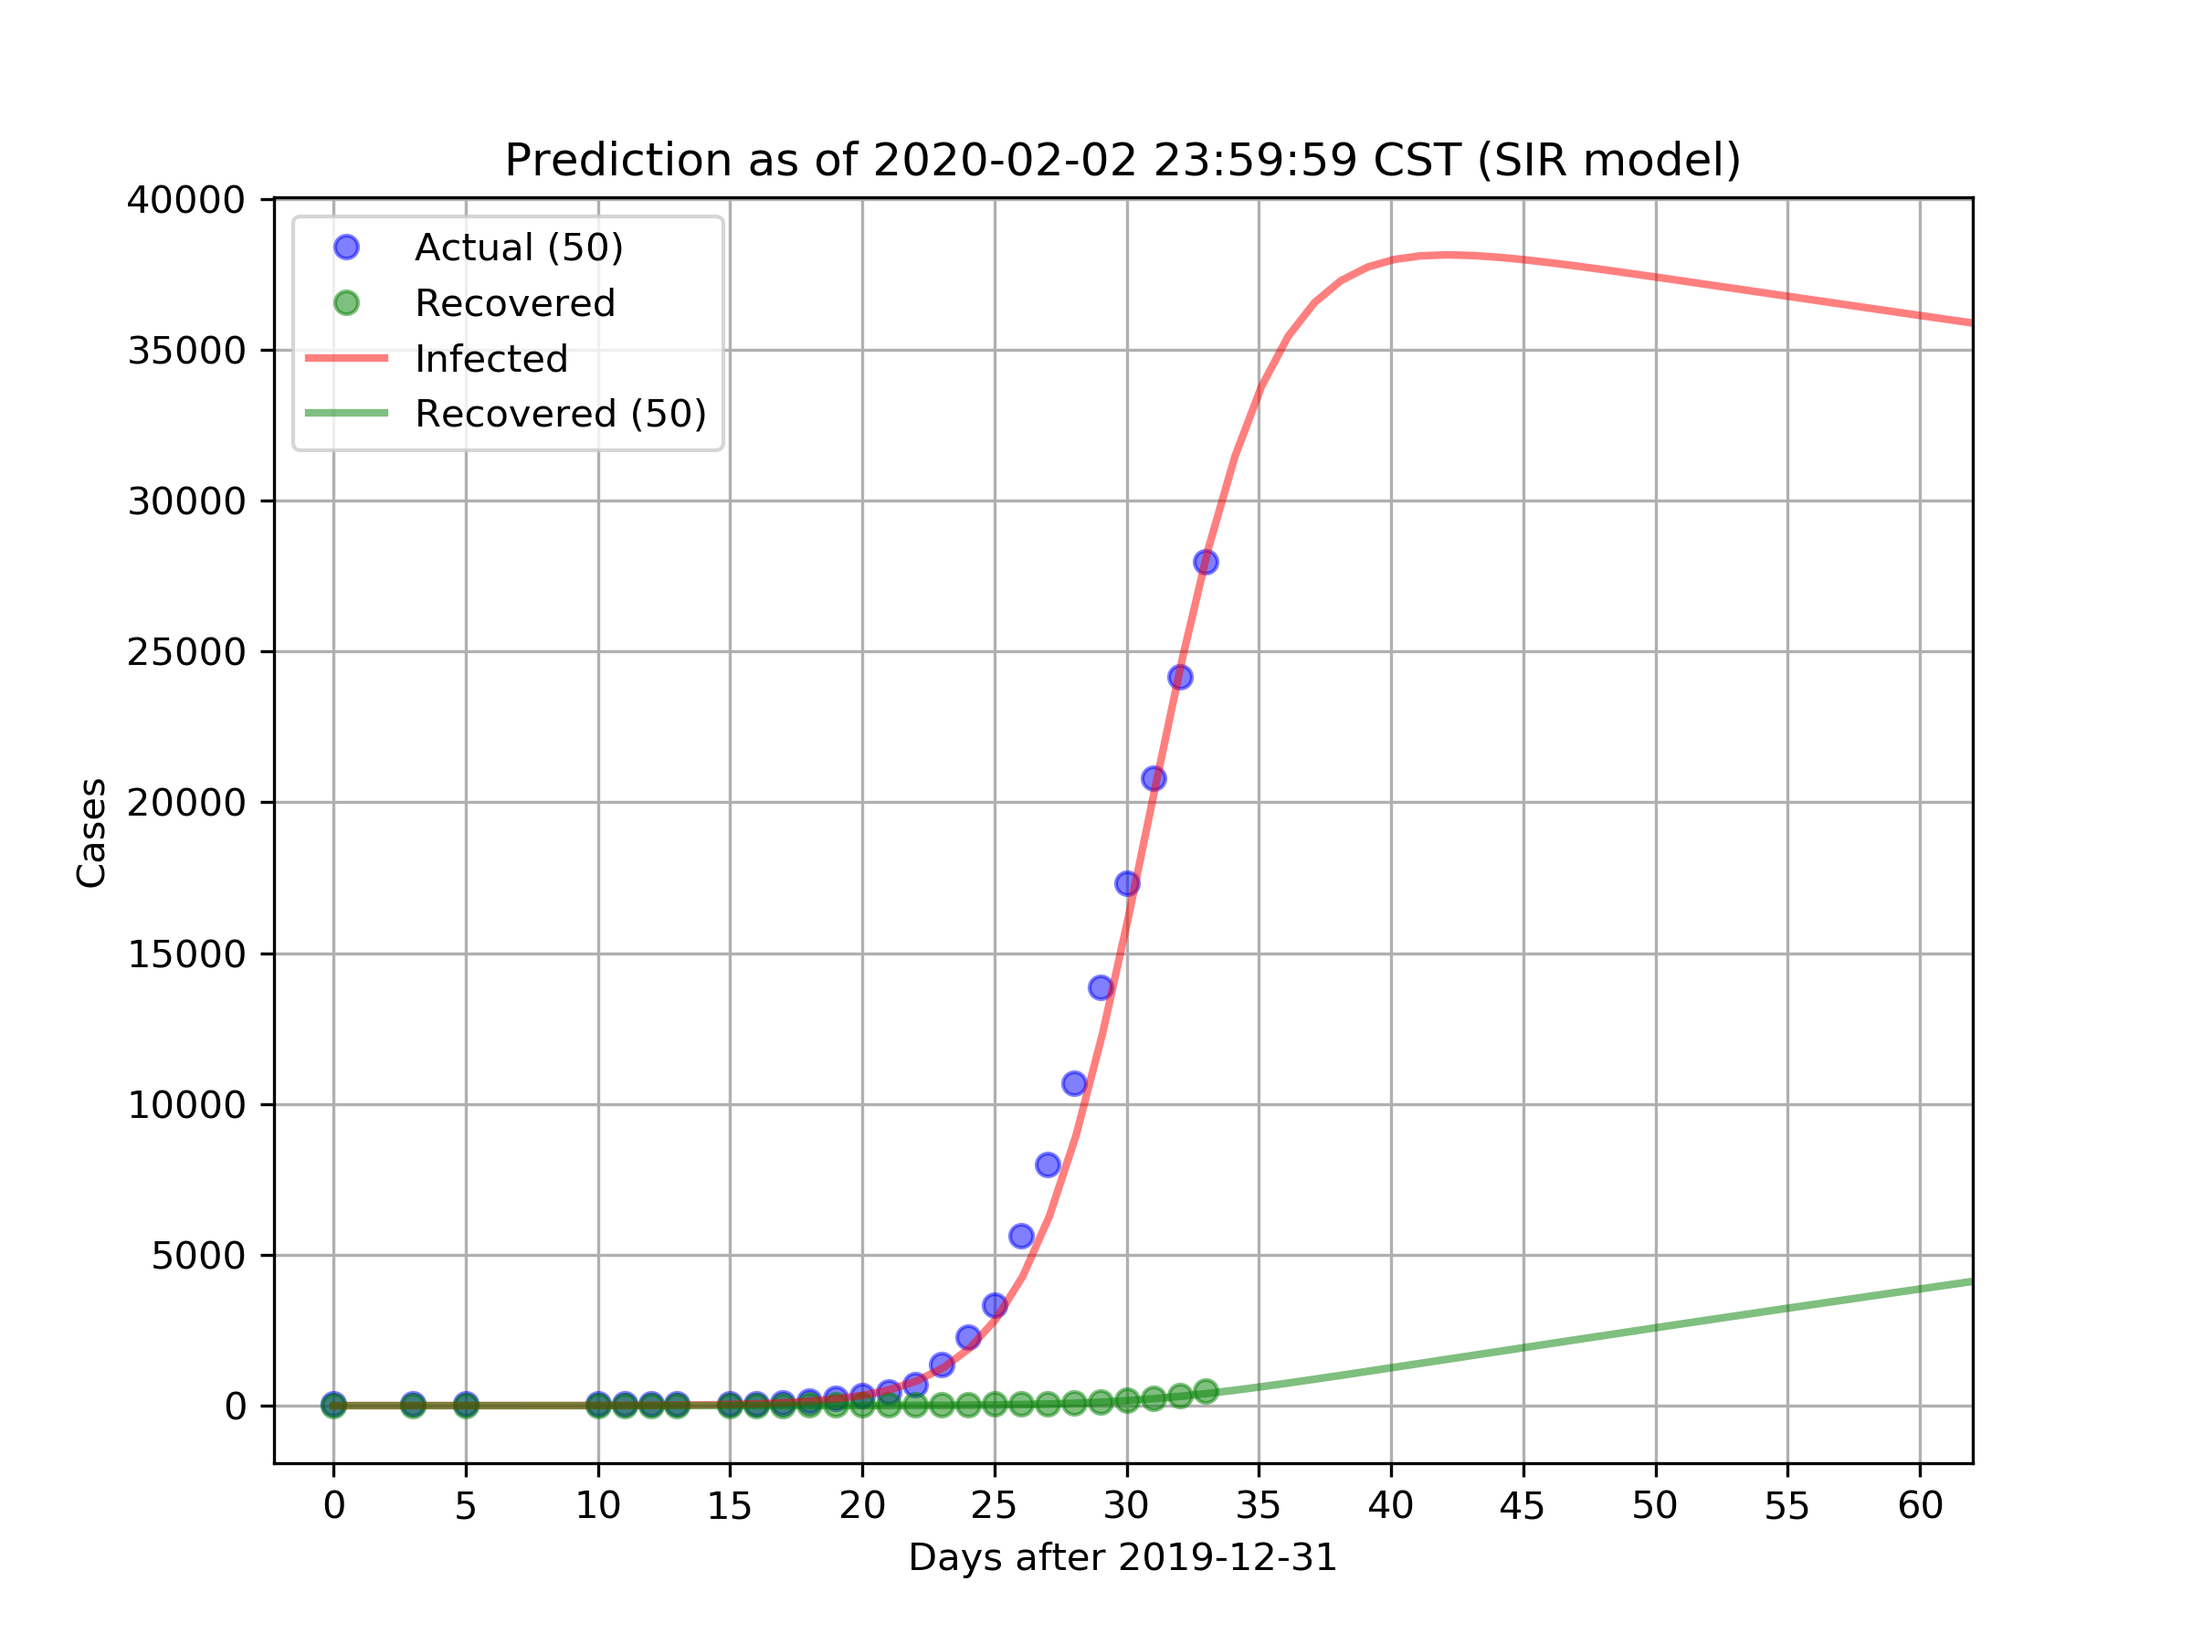
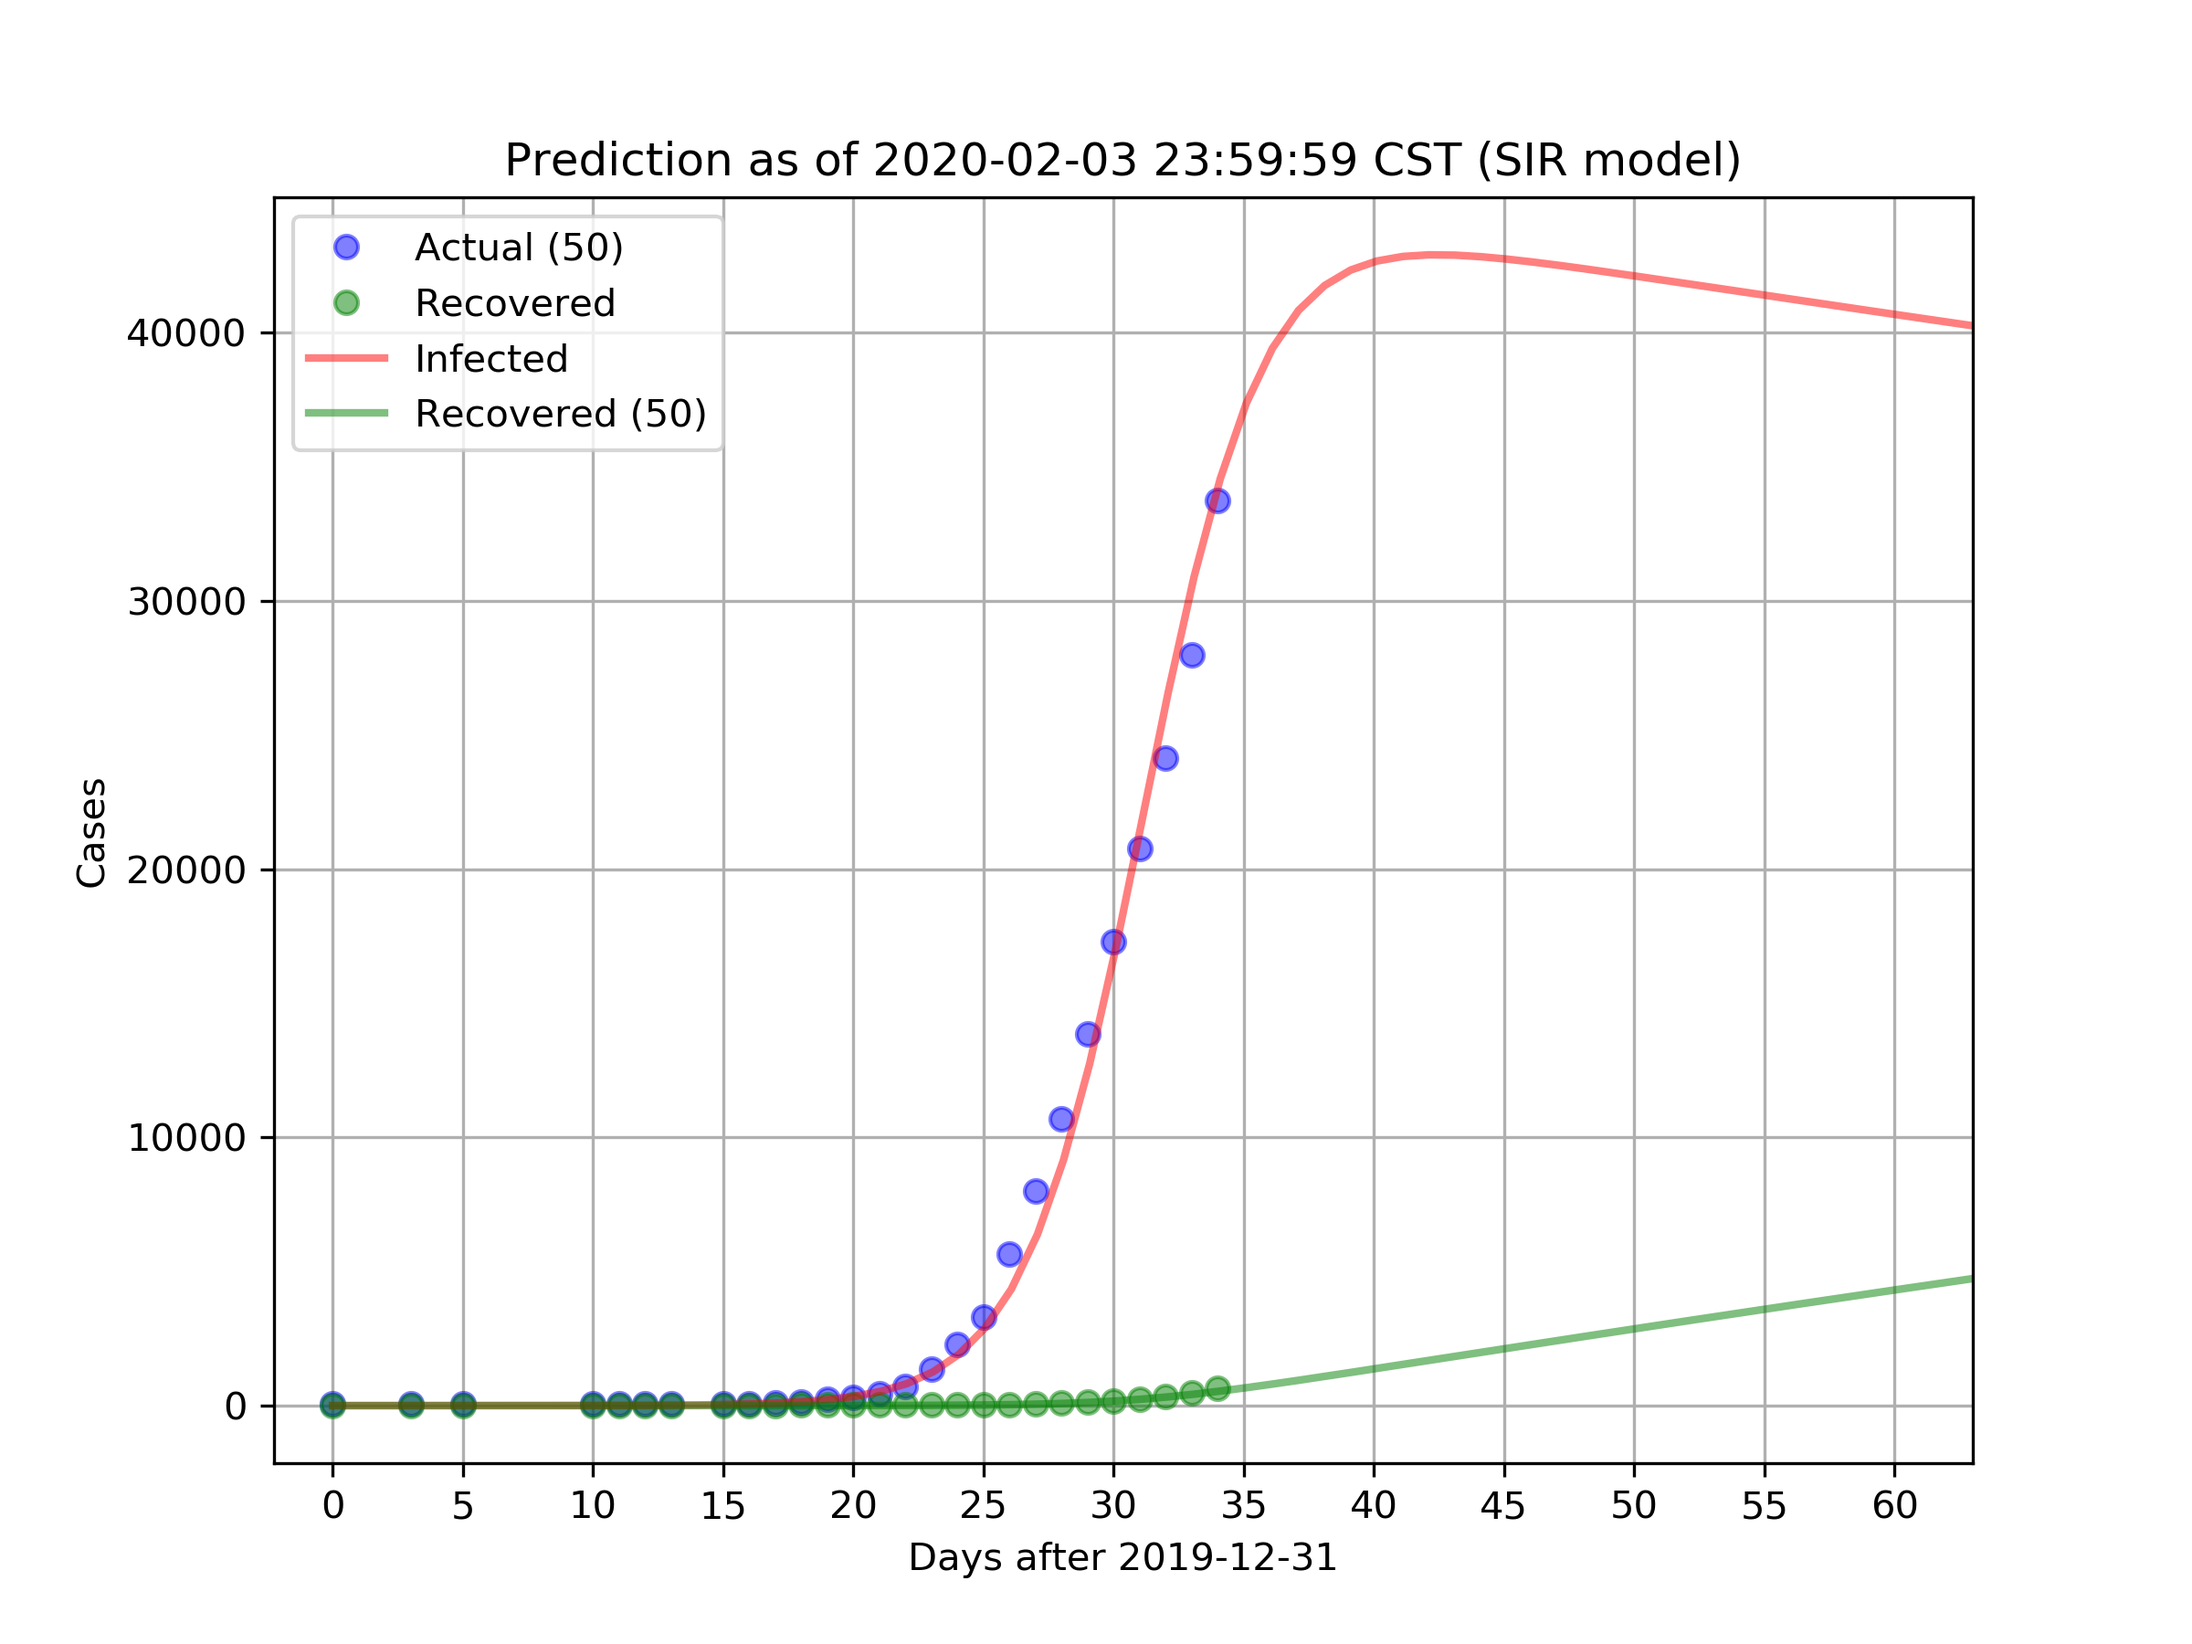
update 2020-02-03

diff --git a/2019_nCoV_SIR.py b/2019_nCoV_SIR.py
@@ -20,7 +20,7 @@ Y_frame = info_frame.drop(['Date CST'], axis=1)
 Ys = Y_frame.to_numpy().transpose()
 
 # Total population, N.
-N = 40000000
+N = 45000000
 # Initial number of infected and recovered individuals, I0 and R0.
 I0, R0 = 55, 0
 # Everyone else, S0, is susceptible to infection initially.
